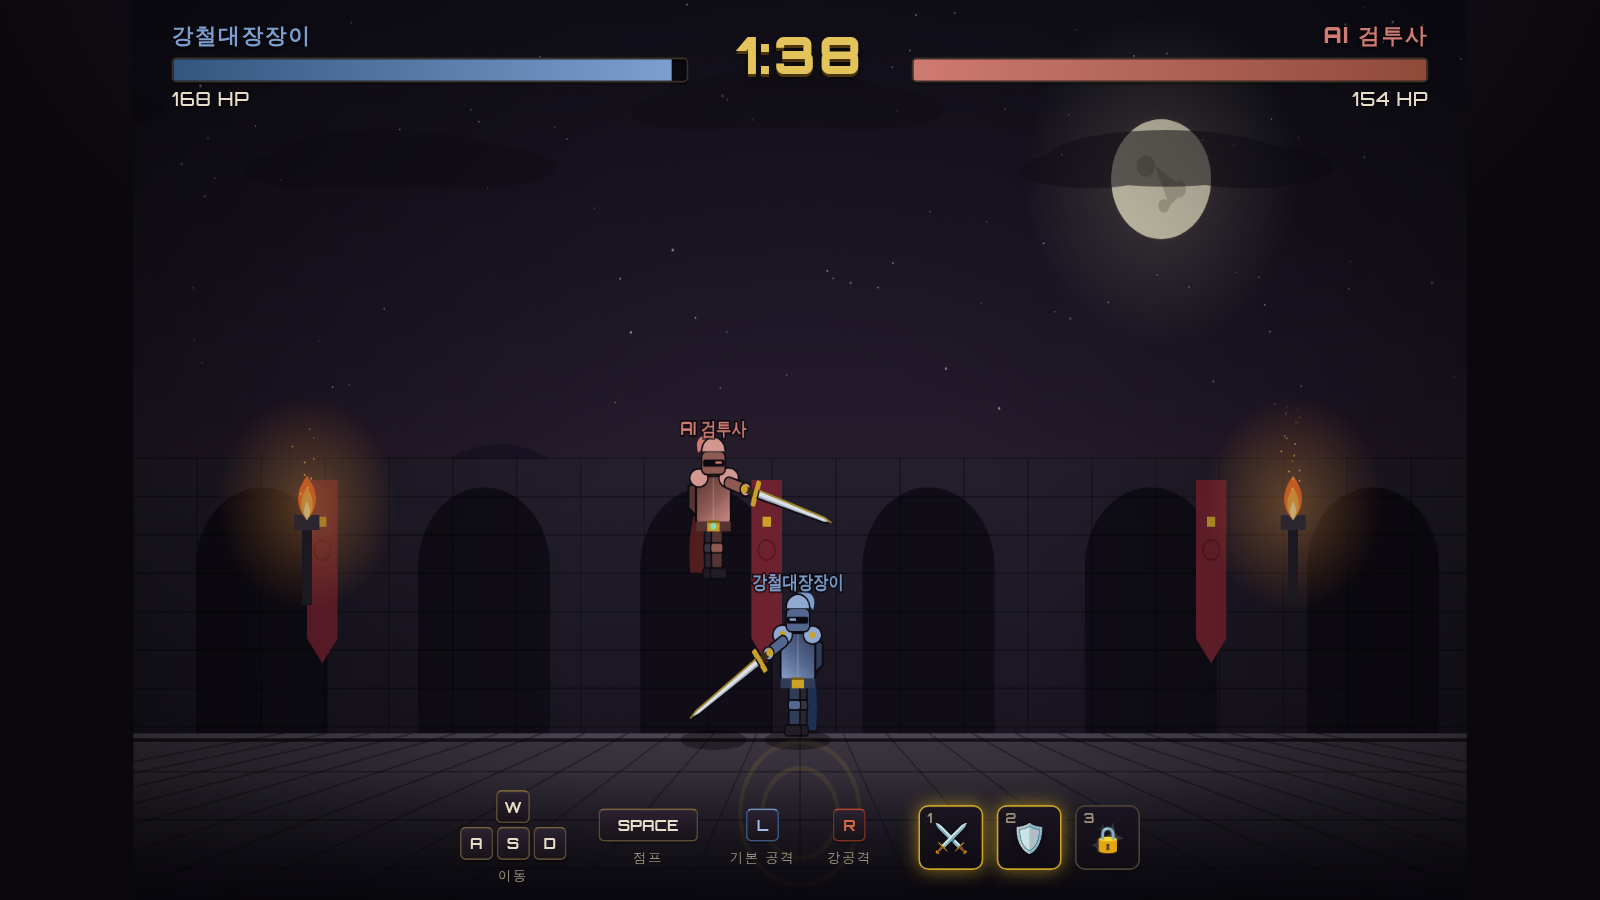
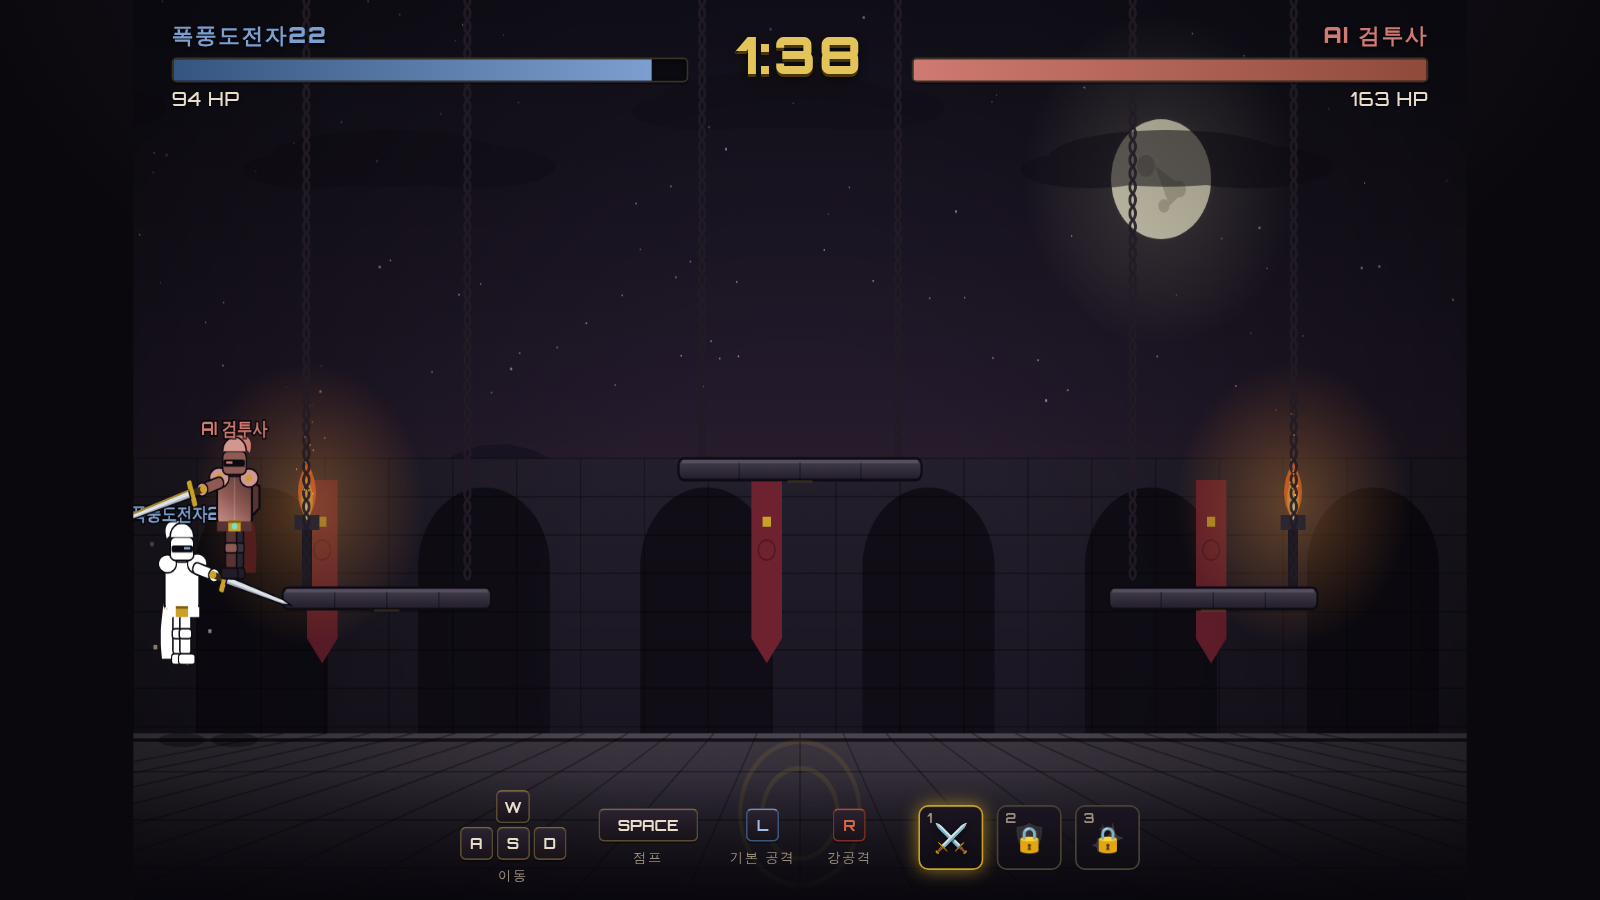
feat: 인게임 공중 발판(원웨이 플랫폼) 장애물 추가 (v1.2.0)
- 양옆 중간 발판 2개 + 높은 중앙 발판 1개 (원웨이: 아래에서 점프로 통과·착지)
- S 키로 발판 아래로 내려가기, 발판/지면에 맞춰 그림자 위치 보정
- AI가 발판 위 상대를 쫓아 점프하도록 보강
- 사슬에 매달린 석재 슬래브로 다크 판타지 스타일 렌더
- README 버전 v1.2.0 갱신 및 전투 규칙/스크린 설명 업데이트

https://claude.ai/code/session_012YSRKPc6fefzypxsiM4GpL

diff --git a/js/battle.js b/js/battle.js
@@ -17,6 +17,15 @@ window.Battle = (function () {
   const W = 1920, H = 1080, GROUND_Y = 880;
   const GRAVITY = 0.92, JUMP_V = -20, FRICTION = 0.80, MAXFALL = 26;
 
+  /* one-way floating platforms (x = left edge, y = top surface, w = width).
+     Side ledges are reachable from the ground; the high center is reachable
+     only by hopping off a side ledge. */
+  const PLATFORMS = [
+    { x: 215,         y: GROUND_Y - 175, w: 300 }, // left ledge
+    { x: W - 515,     y: GROUND_Y - 175, w: 300 }, // right ledge
+    { x: W / 2 - 175, y: GROUND_Y - 330, w: 350 }, // high center
+  ];
+
   /* muted, painted palettes (no neon) */
   const PAL_P1 = { armor: '#54688f', armorL: '#90a9d2', armorD: '#313c57', cape: '#2c4a7a', capeD: '#1c3052', plume: '#7c9fd0', accent: '#7c9fd0' };
   const PAL_P2 = { armor: '#8f5a54', armorL: '#d29790', armorD: '#573332', cape: '#7a3030', capeD: '#521d1d', plume: '#cf7a72', accent: '#cf7a72' };
@@ -64,6 +73,7 @@ window.Battle = (function () {
       atk: null,
       shieldT: 0, hasteT: 0, regenAcc: 0,
       hurt: 0, dead: false,
+      onPlatform: false, dropTimer: 0,
       step: 0, bobPhase: Math.random() * Math.PI * 2,
       ai: null,
     };
@@ -234,11 +244,28 @@ window.Battle = (function () {
     f.x += f.vx;
     f.x = Math.max(70, Math.min(W - 70, f.x));
 
-    if (!f.onGround) {
-      f.vy = Math.min(MAXFALL, f.vy + GRAVITY);
-      f.y += f.vy;
-      if (f.y >= GROUND_Y) { f.y = GROUND_Y; f.vy = 0; f.onGround = true; }
+    // step down through a platform with S (player only)
+    if (f === me && f.onGround && f.onPlatform && keys['s']) {
+      f.onGround = false; f.onPlatform = false; f.dropTimer = 12; f.y += 2;
     }
+    if (f.dropTimer > 0) f.dropTimer--;
+
+    // gravity + collision (always integrate; support is re-evaluated each step)
+    const prevFeet = f.y;
+    f.vy = Math.min(MAXFALL, f.vy + GRAVITY);
+    f.y += f.vy;
+    f.onGround = false; f.onPlatform = false;
+
+    // one-way platforms: only catch while descending and not dropping through
+    if (f.vy >= 0 && f.dropTimer <= 0) {
+      for (const p of PLATFORMS) {
+        if (f.x > p.x && f.x < p.x + p.w && prevFeet <= p.y + 6 && f.y >= p.y) {
+          f.y = p.y; f.vy = 0; f.onGround = true; f.onPlatform = true; break;
+        }
+      }
+    }
+    // solid ground
+    if (f.y >= GROUND_Y) { f.y = GROUND_Y; f.vy = 0; f.onGround = true; f.onPlatform = false; }
 
     if (f.cd.basic > 0) f.cd.basic--;
     if (f.cd.strong > 0) f.cd.strong--;
@@ -288,6 +315,9 @@ window.Battle = (function () {
     const dist = Math.abs(dx);
     const dir = Math.sign(dx) || 1;
     f.ai.t += STEP;
+
+    // hop toward an elevated opponent (use the platforms to give chase)
+    if (target.y < f.y - 50 && dist < 360 && f.onGround && Math.random() < 0.06) jump(f);
 
     if (f.hp < f.maxHp * 0.35) {
       if (f.stats.skills[1] && f.skillCd[1] <= 0 && Math.random() < 0.02) useSkill(f, 1);
@@ -468,7 +498,7 @@ window.Battle = (function () {
   function render() {
     ctx.clearRect(0, 0, W, H);
     drawStage();
-    // draw the rear (right) knight first for a touch of depth
+    drawPlatforms();
     drawFighter(p1); drawFighter(p2);
     drawParticles();
   }
@@ -622,6 +652,32 @@ window.Battle = (function () {
     ctx.restore();
   }
 
+  /* ---------- floating platforms ---------- */
+  function drawChain(x, yBottom) {
+    ctx.strokeStyle = 'rgba(34,28,38,0.9)'; ctx.lineWidth = 4;
+    for (let y = 0; y < yBottom - 4; y += 16) { ctx.beginPath(); ctx.ellipse(x, y, 4, 7, 0, 0, 6.3); ctx.stroke(); }
+  }
+  function drawPlatforms() {
+    const th = 26;
+    for (const p of PLATFORMS) {
+      // suspension chains into the dark above
+      drawChain(p.x + 34, p.y);
+      drawChain(p.x + p.w - 34, p.y);
+      // stone slab
+      const g = ctx.createLinearGradient(0, p.y, 0, p.y + th);
+      g.addColorStop(0, '#47414f'); g.addColorStop(1, '#221d29');
+      ctx.fillStyle = g; ctx.strokeStyle = OUT; ctx.lineWidth = 3;
+      rr(p.x, p.y, p.w, th, 8); ctx.fill(); ctx.stroke();
+      // top-lit edge
+      ctx.fillStyle = '#564e60'; ctx.fillRect(p.x + 5, p.y + 2, p.w - 10, 4);
+      // block seams
+      ctx.strokeStyle = 'rgba(0,0,0,0.32)'; ctx.lineWidth = 2;
+      for (let x = p.x + p.w / 4; x < p.x + p.w - 2; x += p.w / 4) { ctx.beginPath(); ctx.moveTo(x, p.y + 5); ctx.lineTo(x, p.y + th); ctx.stroke(); }
+      // faint rune glow on the underside
+      ctx.fillStyle = 'rgba(201,162,39,0.16)'; ctx.fillRect(p.x + p.w / 2 - 18, p.y + th, 36, 3);
+    }
+  }
+
   /* ---------- knight ---------- */
   function rr(x, y, w, h, r) {
     ctx.beginPath();
@@ -636,10 +692,12 @@ window.Battle = (function () {
   function roundRect(x, y, w, h, r) { rr(x, y, w, h, r); }
 
   function drawFighter(f) {
-    // ground shadow (world space)
+    // shadow on whatever surface the knight stands on (world space)
     ctx.save();
+    const shY = (f.onGround ? f.y : GROUND_Y) + 8;
+    const shSc = f.onGround ? 1 : 0.7;
     ctx.fillStyle = 'rgba(0,0,0,0.35)';
-    ctx.beginPath(); ctx.ellipse(f.x, GROUND_Y + 8, 48, 12, 0, 0, 6.3); ctx.fill();
+    ctx.beginPath(); ctx.ellipse(f.x, shY, 48 * shSc, 12 * shSc, 0, 0, 6.3); ctx.fill();
     ctx.restore();
 
     const P = f.pal;